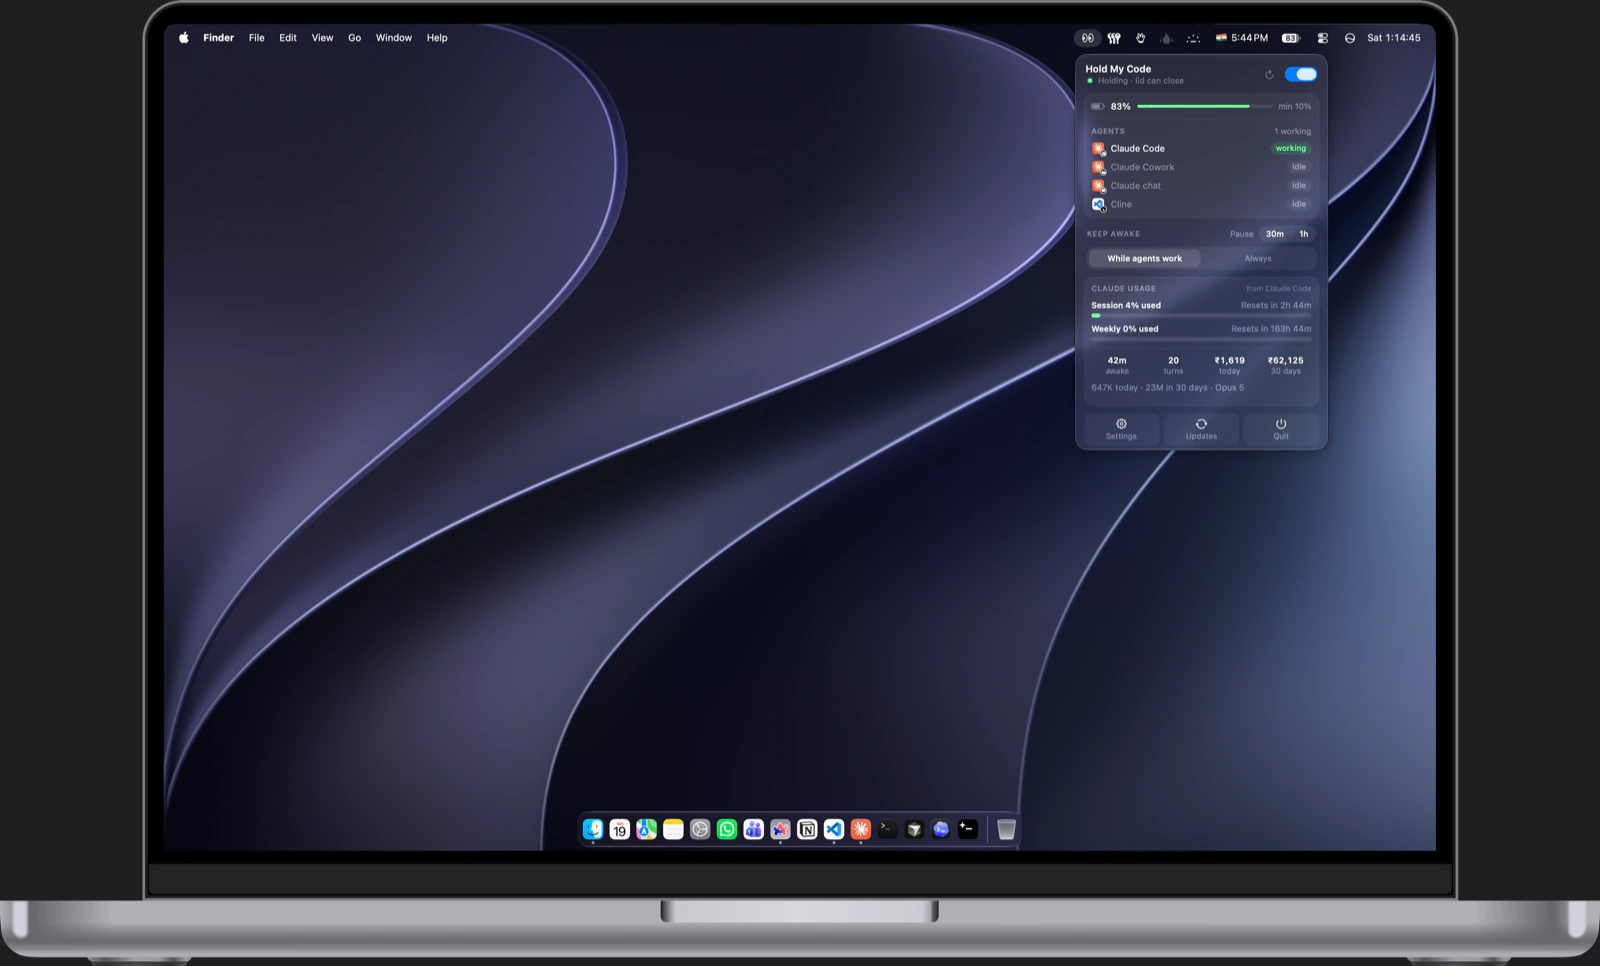
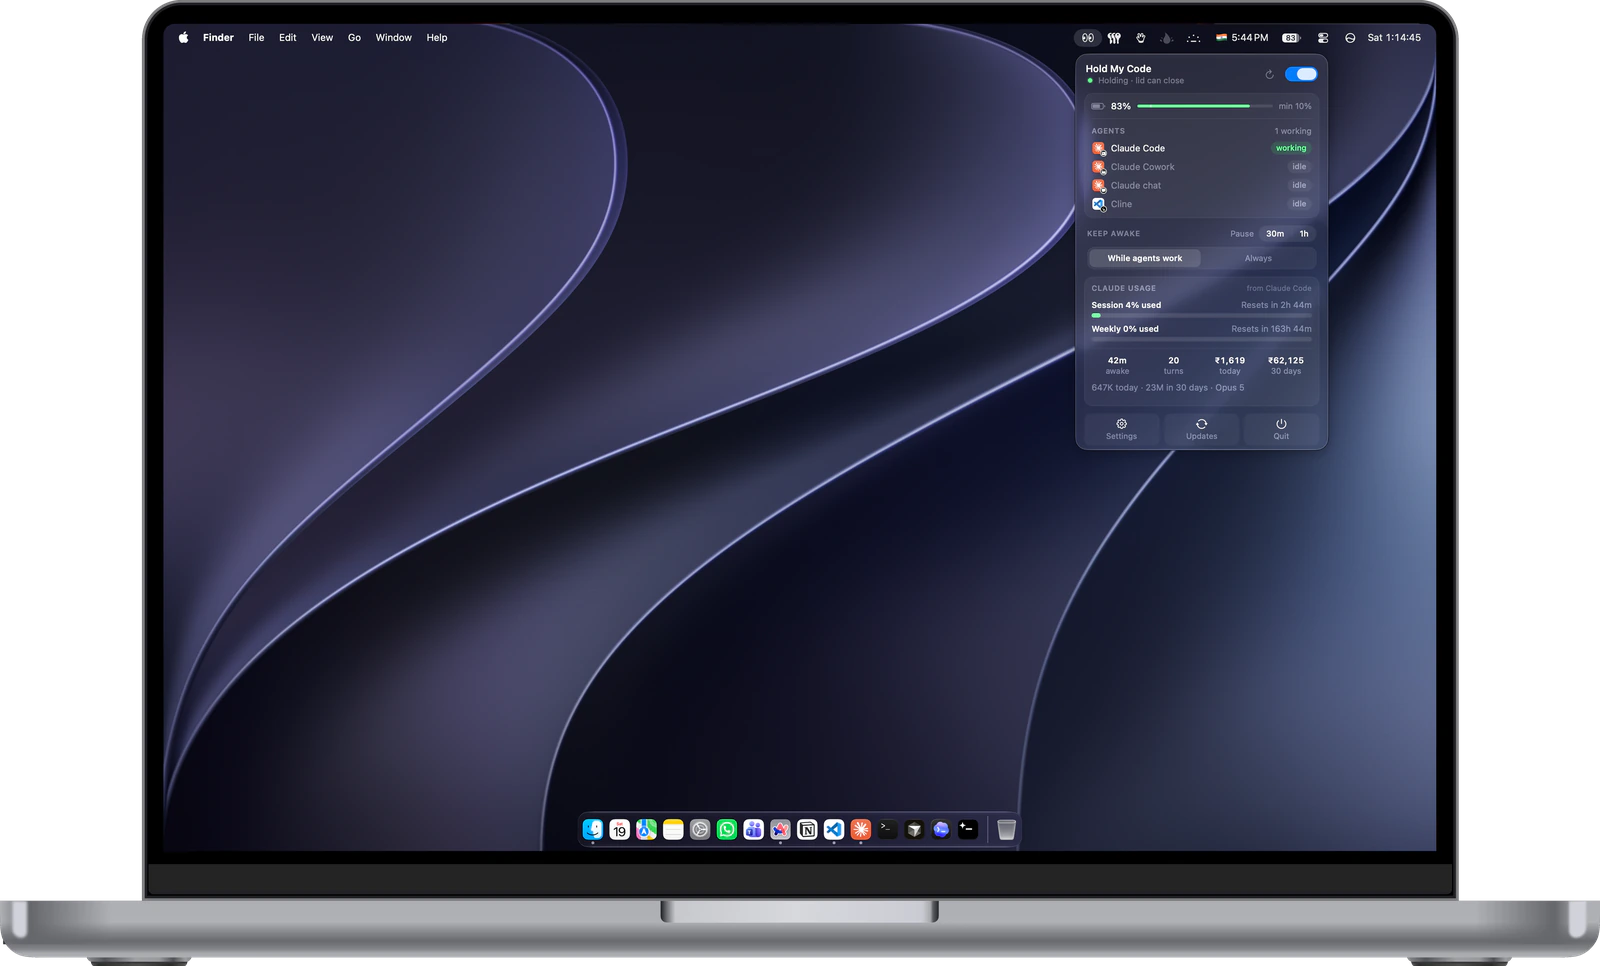
fix: cut the black ground back out of the hero shot
The 2.0 re-shot went in straight from the mockup export, which sits on a flat
#202020 ground, so the hero came back as a dark rectangle. `.hero-shot` has had
no card since 800530f — it is a bare image with a shape-aware drop-shadow, and
that only works on alpha.

Re-cut from the 9928px source: flood-fill the ground from the border (so the
near-black bezel and wallpaper stay opaque), premultiply, then reduce to 1600px
and unpremultiply so the cut edge doesn't drag the ground colour back in.
Same silhouette as the 1.x shot, 17.2% transparent, WebP q92 at 63 KB. The src
carries ?v=3 so nobody keeps the boxed one out of cache.

diff --git a/index.html b/index.html
@@ -92,7 +92,7 @@
 
     <!-- Real product shot: the app running in the macOS menu bar. -->
     <div class="figure hero-figure reveal">
-      <img class="hero-shot" src="hero-laptop.webp?v=2" width="1600" height="966"
+      <img class="hero-shot" src="hero-laptop.webp?v=3" width="1600" height="966"
            fetchpriority="high" decoding="async"
            alt="The HoldMyCode menu bar panel open on a MacBook, showing Holding with the lid able to close, battery at 83%, Claude Code working next to three idle agents, and the Claude usage summary below.">
       <p class="figure-cap">HoldMyCode holding the wake lock while Claude Code works</p>
